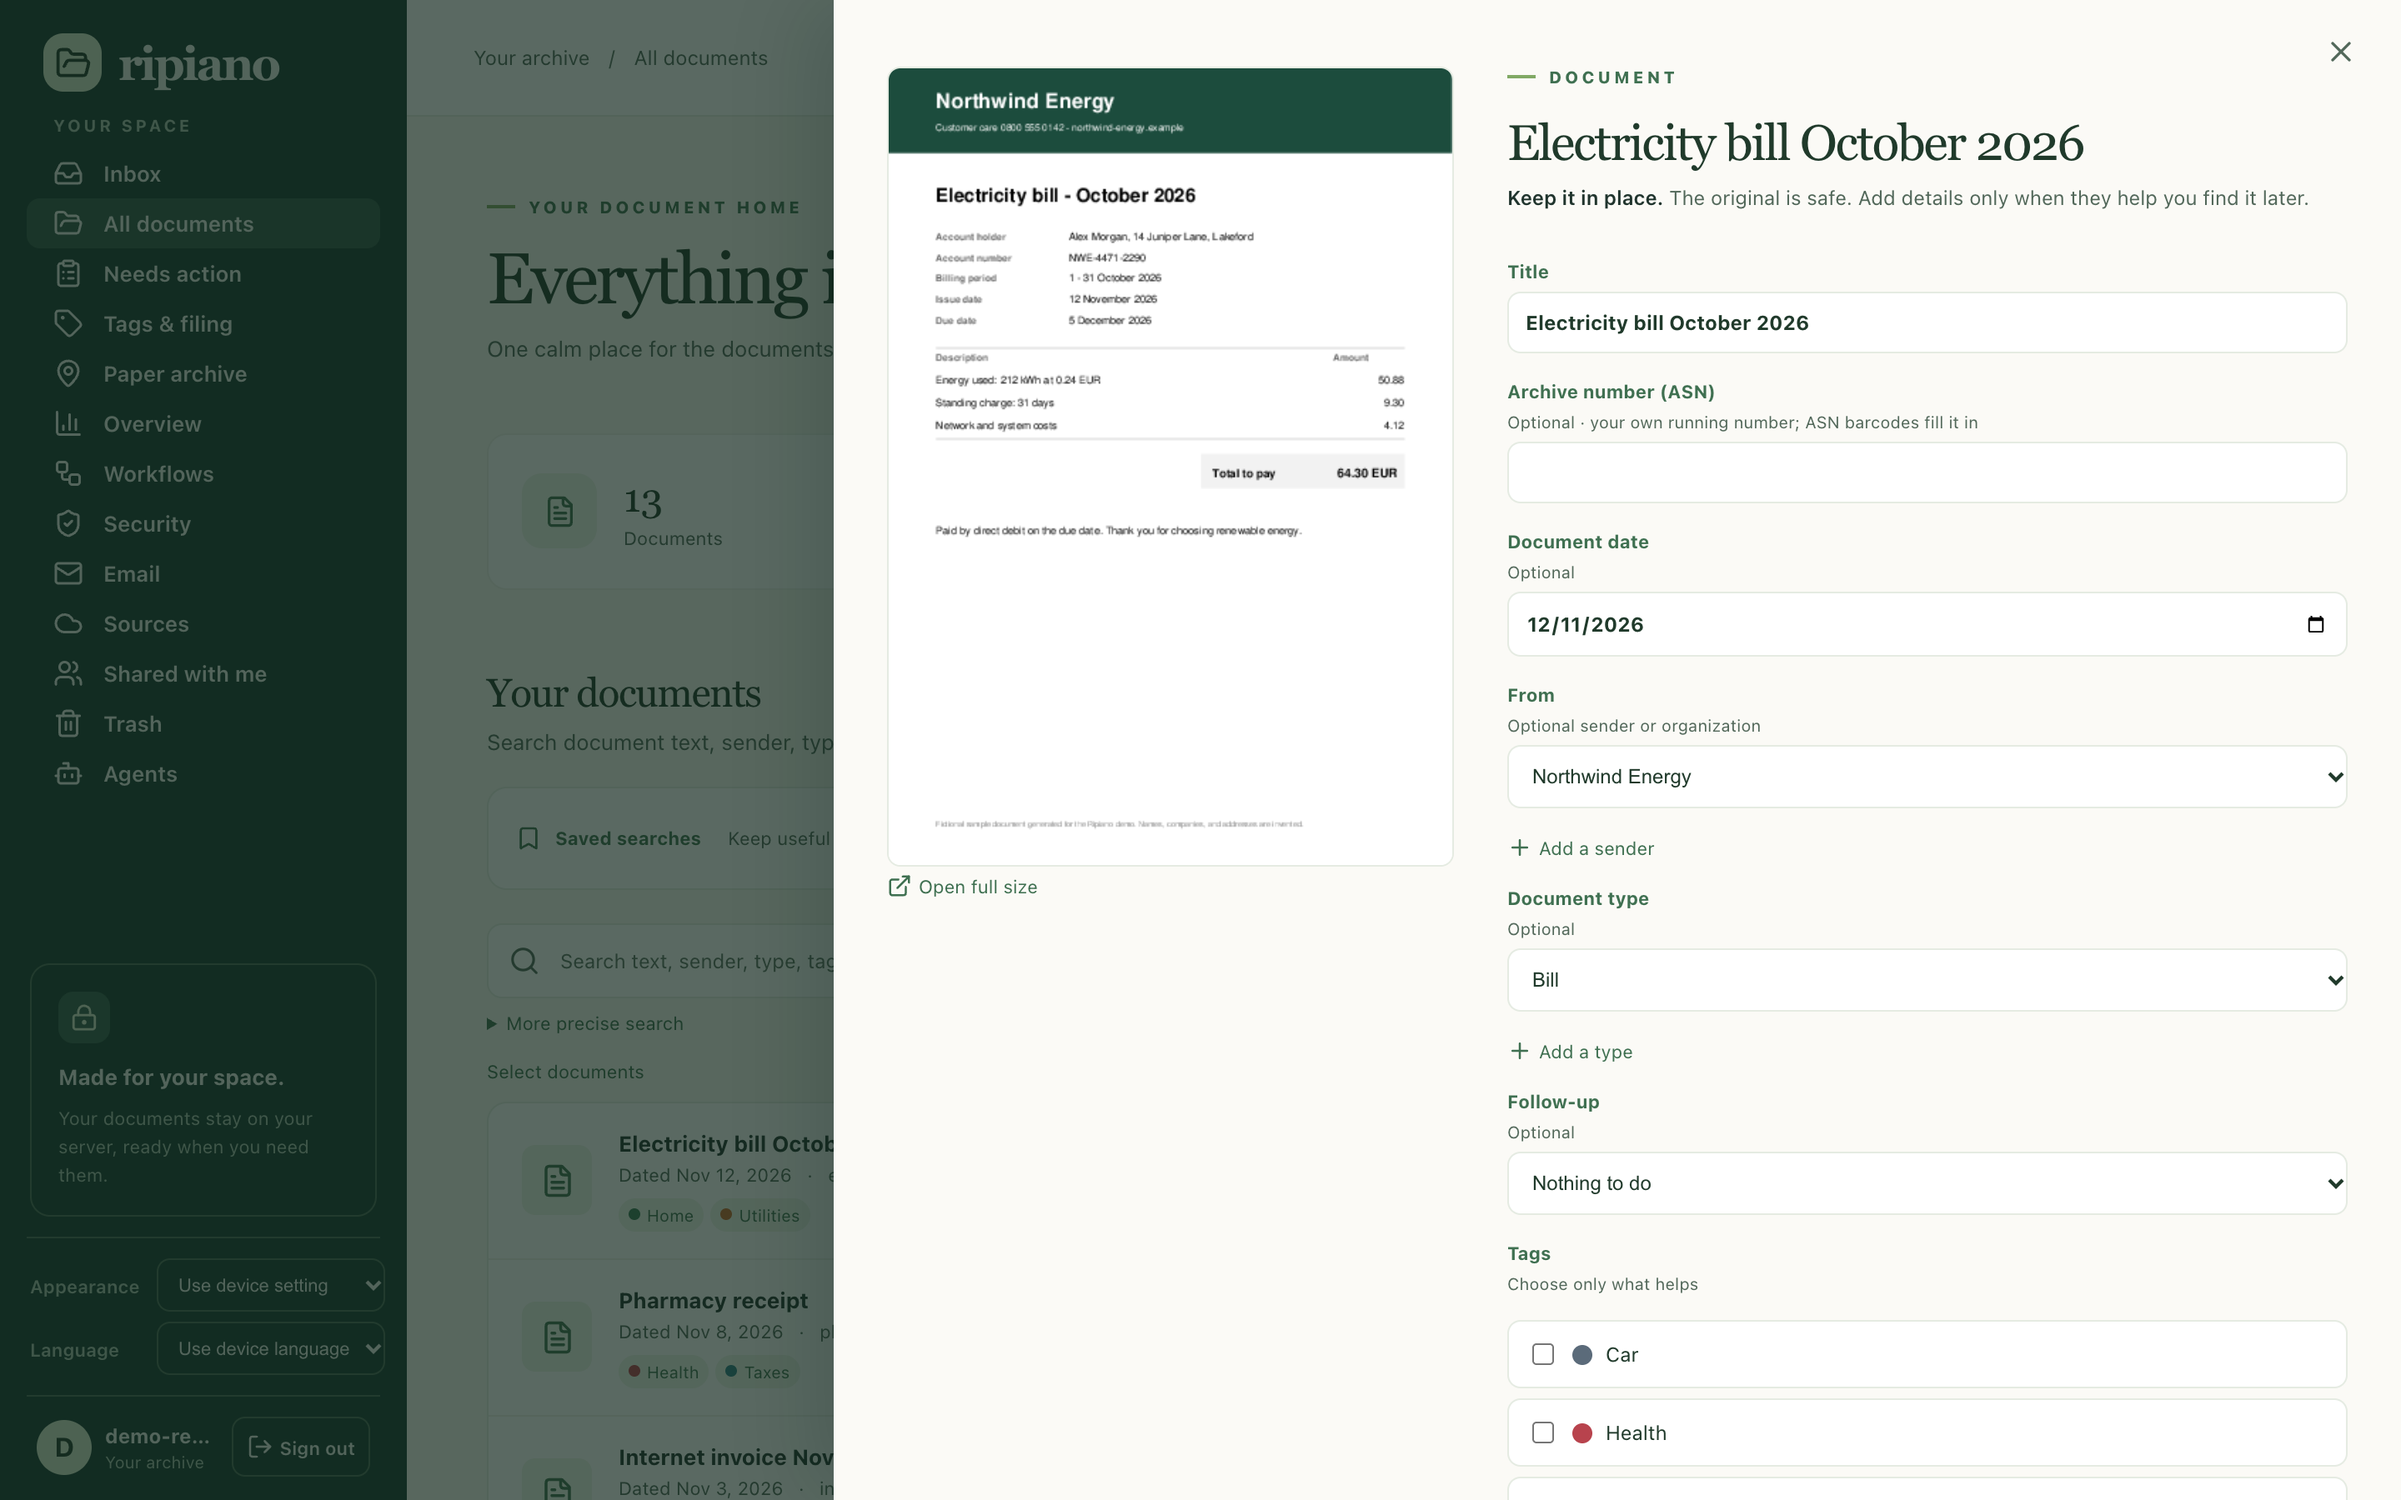
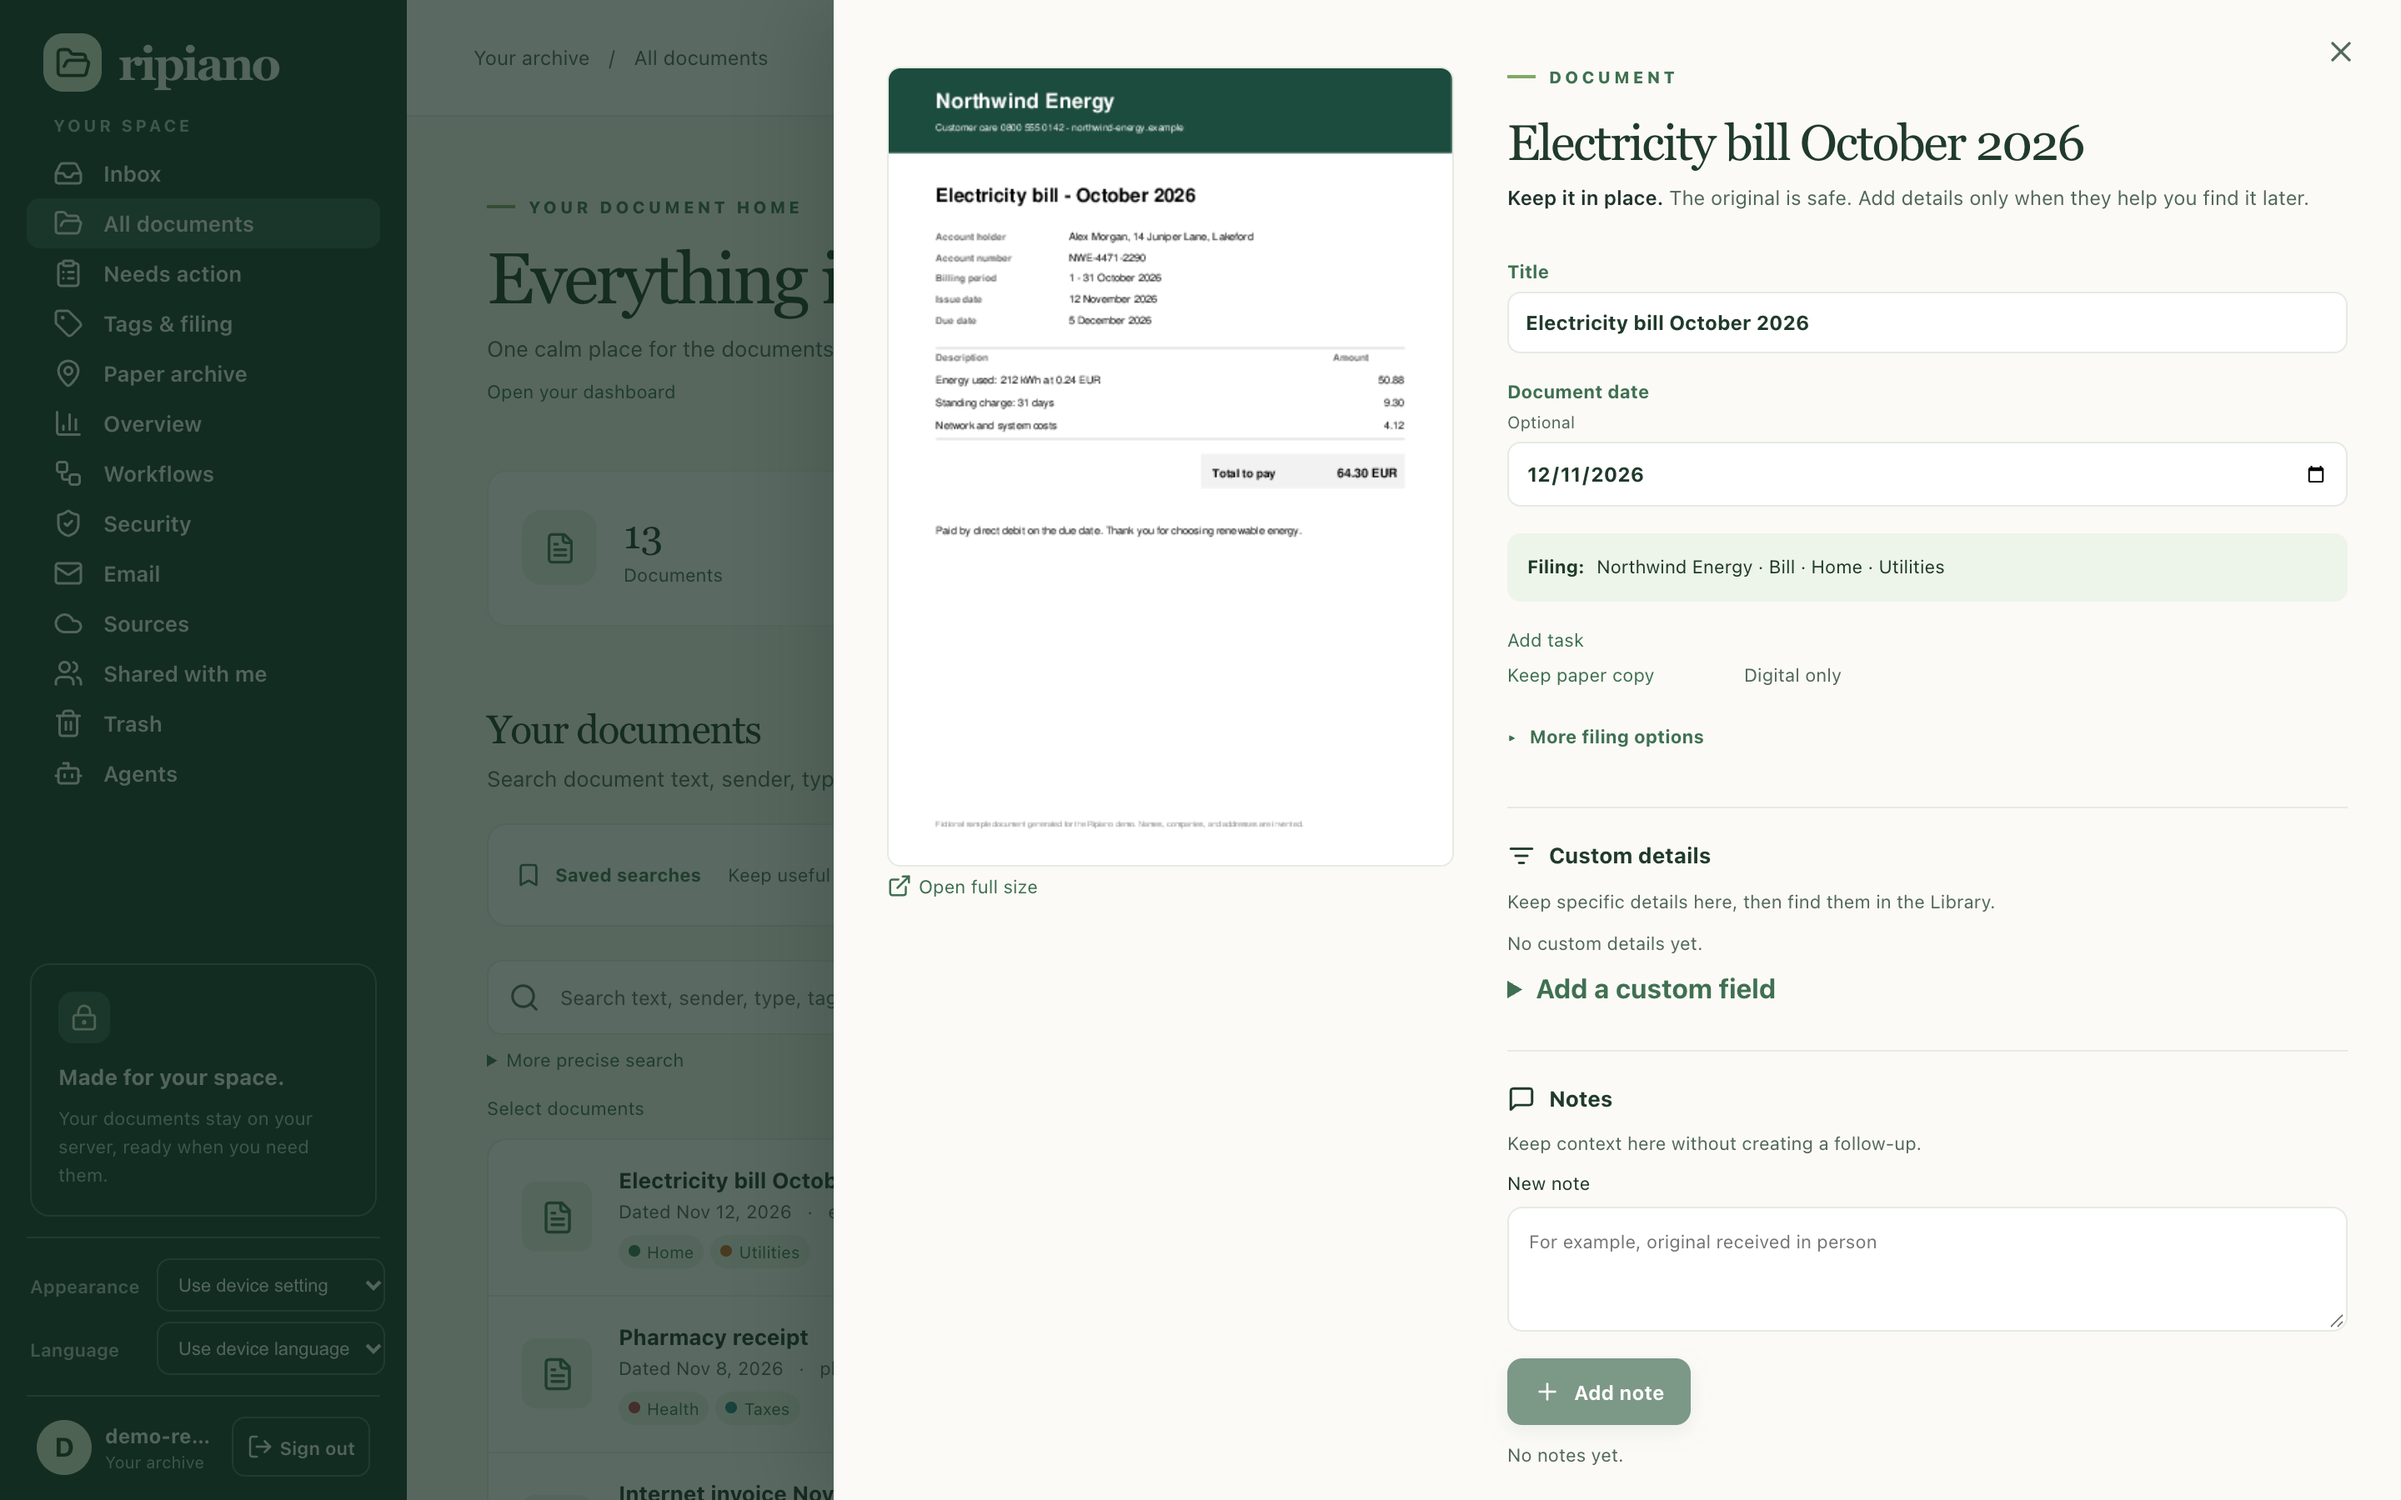
Refresh README screenshots for the current interface

diff --git a/qa-artifacts/20261119-readme/README.md b/qa-artifacts/20261119-readme/README.md
@@ -1,6 +1,6 @@
-# README screenshots (2026-11-19)
+# README screenshots (first captured 2026-11-19, refreshed 2026-11-24)
 
-Captured from the local development stack (`http://localhost:18080`, branch `codex/initial-implementation` after 063074a)
+Refreshed on 2026-11-24 from a throwaway stack built from `main` at c3d285e (first captured from the local development stack after 063074a),
 in a separate demo account with 13 fictional household documents. Every company, person, and address is invented.
 
 - `make_docs.py` writes the sample text PDFs (Python standard library only).

diff --git a/README.md b/README.md
@@ -7,7 +7,7 @@
 </p>
 
 <p align="center">
-  <img src="qa-artifacts/20261119-readme/desktop-document.png" alt="An electricity bill open in Ripiano: first-page preview beside its title, date, sender, and type" width="620">
+  <img src="qa-artifacts/20261119-readme/desktop-document.png" alt="An electricity bill open in Ripiano: first-page preview beside its title, date, a one-line filing summary, and task and paper-copy actions" width="620">
   &nbsp;
   <img src="qa-artifacts/20261119-readme/mobile-library.png" alt="The Ripiano Library on a phone" width="200">
 </p>
